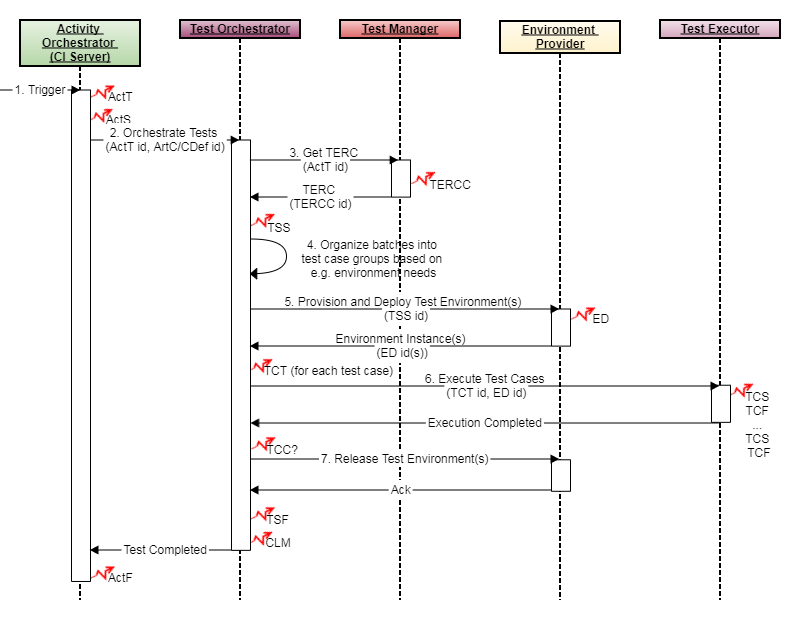
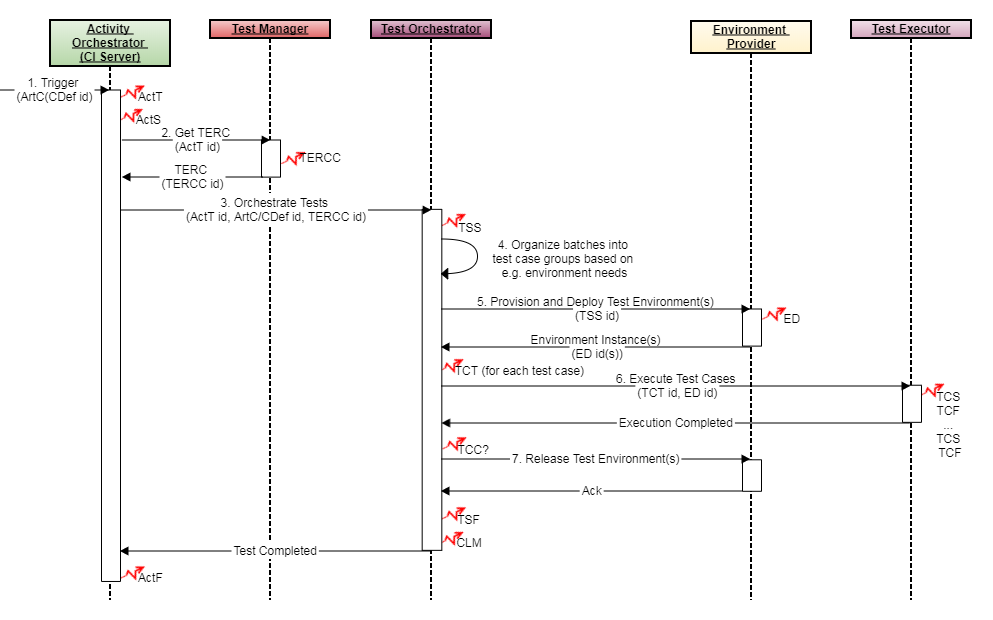
Switch test executor and test manager in sequence diagram
The sequence diagram is updated where the test executor and the
test manager are switched. The logic is also changed so that the
CI server now calls the test manager to get the TERC and then
calls the test executor.

diff --git a/usage-examples/test-execution.md b/usage-examples/test-execution.md
@@ -56,8 +56,8 @@ To realize the event graph in this example, a sequence like the following is nee
 ![alt text](./test-execution-sequence.png "Sequence of Calls and Events of Test Execution Example")
 
 1. A test activity gets triggered by some event or timer. An [EiffelActivityTriggeredEvent](../eiffel-vocabulary/EiffelActivityTriggeredEvent.md) is immediately sent, and when the activity is ready to be executed an [EiffelActivityStartedEvent](../eiffel-vocabulary/EiffelActivityStartedEvent.md) is sent. Depending on the CI Server used these events might come directly after each other, or if the CI Server has an execution queue internally the first event will be sent when the activity is put in the queue and the latter when the execution starts.
-2. A Test Orchestrator is called to separate the concerns of managing a CI activity from the test orchestration. This could of course be performed within the Activity Orchestrator unless there is a certain need to divide them. It is perfectly fine to deploy these two servers on the same physical node, if appropriate.
-3. In a simple test activity the list of test cases to be executed could be hard coded, but in this example we show how Eiffel events can be used to handle dynamic selections of test cases. The Test Manager is queried for the list of test cases together with the constraints on the test environment for those test cases. This information is all included in a TERC document represented by the [EiffelTestExecutionRecipeCollectionCreatedEvent](../eiffel-vocabulary/EiffelTestExecutionRecipeCollectionCreatedEvent.md).
+2. In a simple test activity the list of test cases to be executed could be hard coded, but in this example we show how Eiffel events can be used to handle dynamic selections of test cases. The Test Manager is queried for the list of test cases together with the constraints on the test environment for those test cases. This information is all included in a TERC document represented by the [EiffelTestExecutionRecipeCollectionCreatedEvent](../eiffel-vocabulary/EiffelTestExecutionRecipeCollectionCreatedEvent.md).
+3. A Test Orchestrator is called to separate the concerns of managing a CI activity from the test orchestration. This could of course be performed within the Activity Orchestrator unless there is a certain need to divide them. It is perfectly fine to deploy these two servers on the same physical node, if appropriate.
 4. The Test Orchestrator sends an [EiffelTestSuiteStartedEvent](../eiffel-vocabulary/EiffelTestSuiteStartedEvent.md) referencing the [EiffelTestExecutionRecipeCollectionCreatedEvent](../eiffel-vocabulary/EiffelTestExecutionRecipeCollectionCreatedEvent.md) and [EiffelActivityTriggeredEvent](../eiffel-vocabulary/EiffelActivityTriggeredEvent.md) events to inform that the test execution is progressing. The batches of test case recipes in the TERC are evaluated and test suites are formed based on for example test environment needs.
 5. In a simple test activity there might not be a need to call a separate service to setup a test environment, but in this example we show how Eiffel events can be used to handle on demand created test environments. The provisioning of test environments could also be performed by the Test Executor, but in this example we show how to separate environment provisioning, connected to test case grouping, from the actual execution of the test cases. If a new test environment is created for this specific test suite an [EiffelEnvironmentDefinedEvent](../eiffel-vocabulary/EiffelEnvironmentDefinedEvent.md) is issued. If a previously created environment is used, its corresponding [EiffelEnvironmentDefinedEvent](../eiffel-vocabulary/EiffelEnvironmentDefinedEvent.md) is looked up.
 6. For each test case in the group a [EiffelTestCaseTriggeredEvent](../eiffel-vocabulary/EiffelTestCaseTriggeredEvent.md) is sent. A Test Executor is then called with the environment instance and the list of test cases to execute. The Test Executor executes the test cases and sends corresponding [EiffelTestCaseStartedEvents](../eiffel-vocabulary/EiffelTestCaseStartedEvent.md) and [EiffelTestCaseFinishedEvents](../eiffel-vocabulary/EiffelTestCaseFinishedEvent.md) for each of them. The [EiffelTestCaseStartedEvents](../eiffel-vocabulary/EiffelTestCaseStartedEvent.md) shall refer to the environment in which the test case is executed, represented by its [EiffelEnvironmentDefinedEvent](../eiffel-vocabulary/EiffelEnvironmentDefinedEvent.md). Whether the test suites are executed in parallel or in serial is of no interest to the Eiffel protocol. It's merely up to the test executor to handle it in the best way available.
